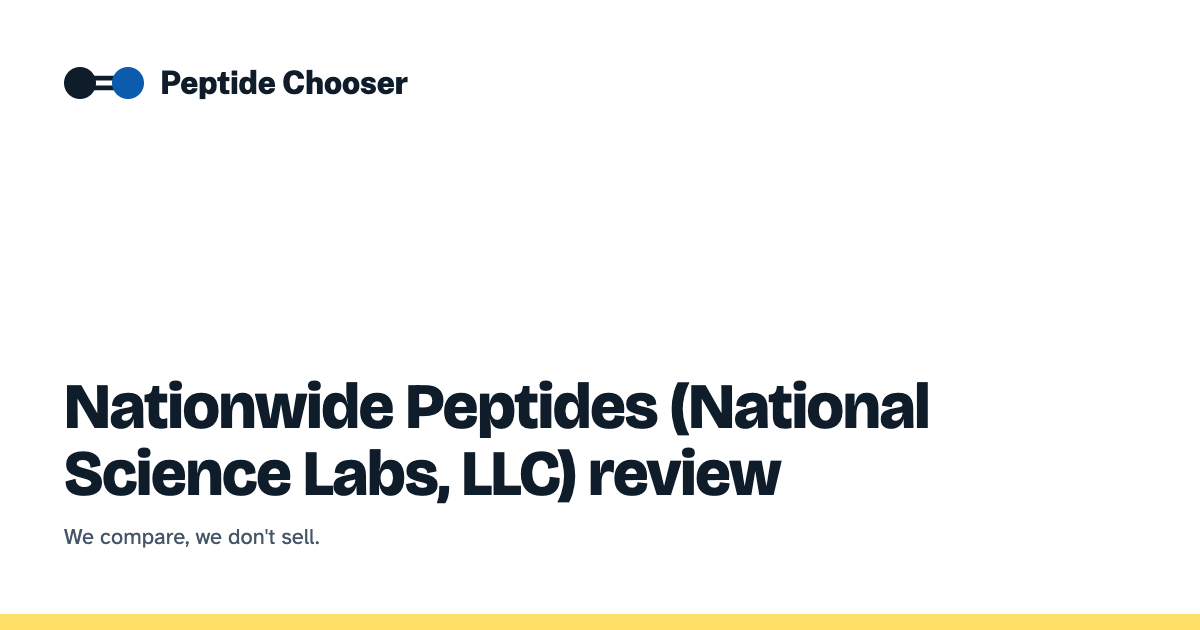
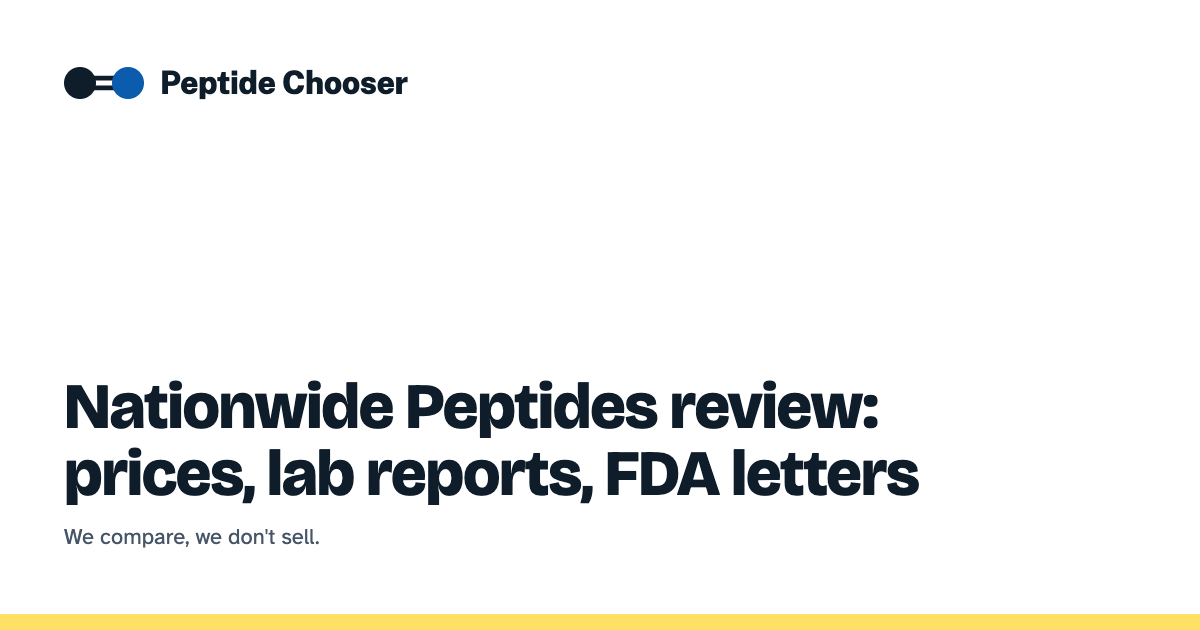
Short seller names everywhere a seller is named, share images included
The data now carries short display names. seller_name() strips a bracketed legal name whatever the data holds, and the
call sites that printed the raw name use it: the letters page ("In our database"), guides, seller lines and tables.
The 9 share images that still drew the old title with the legal name are redrawn. URLs do not change.

Tier 1: the old and new titles and descriptions are listed in the PR, for ODOBRENO SEO.

Changed region(s): [[0.0308, 0.6032, 0.7708, 0.8143]]

diff --git a/dist/learn/fda-warning-letters-peptides-2026/index.html b/dist/learn/fda-warning-letters-peptides-2026/index.html
@@ -22,7 +22,7 @@
 <link rel="stylesheet" href="/assets/tokens.css">
 <link rel="stylesheet" href="/assets/bundle.css">
 <link rel="stylesheet" href="/assets/site.css">
-<script type="application/ld+json">{"@context": "https://schema.org", "@type": "Article", "headline": "FDA warning letters to peptide sellers, 2026: what happened", "description": "Every FDA warning letter we track from 2026, counted by month, by kind of seller and by the substances named, with the common subjects and what a letter asks.", "datePublished": "2026-11-04", "dateModified": "2026-11-04", "author": {"@type": "Organization", "name": "Peptide Chooser", "url": "https://peptidechooser.com/"}, "publisher": {"@type": "Organization", "name": "Peptide Chooser", "url": "https://peptidechooser.com/", "logo": {"@type": "ImageObject", "url": "https://peptidechooser.com/assets/icon-512.png"}}, "mainEntityOfPage": "https://peptidechooser.com/learn/fda-warning-letters-peptides-2026/", "image": "https://peptidechooser.com/assets/og/learn-fda-warning-letters-peptides-2026.png"}</script><script type="application/ld+json">{"@context": "https://schema.org", "@type": "BreadcrumbList", "itemListElement": [{"@type": "ListItem", "position": 1, "name": "Home", "item": "https://peptidechooser.com/"}, {"@type": "ListItem", "position": 2, "name": "Learn", "item": "https://peptidechooser.com/learn/"}, {"@type": "ListItem", "position": 3, "name": "FDA warning letters to peptide sellers, 2026: what happened", "item": "https://peptidechooser.com/learn/fda-warning-letters-peptides-2026/"}]}</script>
+<script type="application/ld+json">{"@context": "https://schema.org", "@type": "Article", "headline": "FDA warning letters to peptide sellers, 2026: what happened", "description": "Every FDA warning letter we track from 2026, counted by month, by kind of seller and by the substances named, with the common subjects and what a letter asks.", "datePublished": "2026-11-05", "dateModified": "2026-11-05", "author": {"@type": "Organization", "name": "Peptide Chooser", "url": "https://peptidechooser.com/"}, "publisher": {"@type": "Organization", "name": "Peptide Chooser", "url": "https://peptidechooser.com/", "logo": {"@type": "ImageObject", "url": "https://peptidechooser.com/assets/icon-512.png"}}, "mainEntityOfPage": "https://peptidechooser.com/learn/fda-warning-letters-peptides-2026/", "image": "https://peptidechooser.com/assets/og/learn-fda-warning-letters-peptides-2026.png"}</script><script type="application/ld+json">{"@context": "https://schema.org", "@type": "BreadcrumbList", "itemListElement": [{"@type": "ListItem", "position": 1, "name": "Home", "item": "https://peptidechooser.com/"}, {"@type": "ListItem", "position": 2, "name": "Learn", "item": "https://peptidechooser.com/learn/"}, {"@type": "ListItem", "position": 3, "name": "FDA warning letters to peptide sellers, 2026: what happened", "item": "https://peptidechooser.com/learn/fda-warning-letters-peptides-2026/"}]}</script>
 <script>
 (function(d){if(matchMedia('(prefers-reduced-motion: reduce)').matches)return;d.classList.add('motion');
 setTimeout(function(){if(!window.pcMotion)d.classList.remove('motion');},3000);})(document.documentElement);

diff --git a/dist/learn/longevity-peptides-epitalon-mots-c-nad/index.html b/dist/learn/longevity-peptides-epitalon-mots-c-nad/index.html
@@ -22,7 +22,7 @@
 <link rel="stylesheet" href="/assets/tokens.css">
 <link rel="stylesheet" href="/assets/bundle.css">
 <link rel="stylesheet" href="/assets/site.css">
-<script type="application/ld+json">{"@context": "https://schema.org", "@type": "Article", "headline": "Longevity peptides: Epitalon, MOTS-c and NAD+ in 2026", "description": "Epitalon, MOTS-c and NAD+ are sold for aging. Their FDA status from our database, the studies in people by design, why NAD+ is not a peptide, and prices.", "datePublished": "2026-11-04", "dateModified": "2026-11-04", "author": {"@type": "Organization", "name": "Peptide Chooser", "url": "https://peptidechooser.com/"}, "publisher": {"@type": "Organization", "name": "Peptide Chooser", "url": "https://peptidechooser.com/", "logo": {"@type": "ImageObject", "url": "https://peptidechooser.com/assets/icon-512.png"}}, "mainEntityOfPage": "https://peptidechooser.com/learn/longevity-peptides-epitalon-mots-c-nad/", "image": "https://peptidechooser.com/assets/og/learn-longevity-peptides-epitalon-mots-c-nad.png"}</script><script type="application/ld+json">{"@context": "https://schema.org", "@type": "BreadcrumbList", "itemListElement": [{"@type": "ListItem", "position": 1, "name": "Home", "item": "https://peptidechooser.com/"}, {"@type": "ListItem", "position": 2, "name": "Learn", "item": "https://peptidechooser.com/learn/"}, {"@type": "ListItem", "position": 3, "name": "Longevity peptides: Epitalon, MOTS-c and NAD+ in 2026", "item": "https://peptidechooser.com/learn/longevity-peptides-epitalon-mots-c-nad/"}]}</script>
+<script type="application/ld+json">{"@context": "https://schema.org", "@type": "Article", "headline": "Longevity peptides: Epitalon, MOTS-c and NAD+ in 2026", "description": "Epitalon, MOTS-c and NAD+ are sold for aging. Their FDA status from our database, the studies in people by design, why NAD+ is not a peptide, and prices.", "datePublished": "2026-11-05", "dateModified": "2026-11-05", "author": {"@type": "Organization", "name": "Peptide Chooser", "url": "https://peptidechooser.com/"}, "publisher": {"@type": "Organization", "name": "Peptide Chooser", "url": "https://peptidechooser.com/", "logo": {"@type": "ImageObject", "url": "https://peptidechooser.com/assets/icon-512.png"}}, "mainEntityOfPage": "https://peptidechooser.com/learn/longevity-peptides-epitalon-mots-c-nad/", "image": "https://peptidechooser.com/assets/og/learn-longevity-peptides-epitalon-mots-c-nad.png"}</script><script type="application/ld+json">{"@context": "https://schema.org", "@type": "BreadcrumbList", "itemListElement": [{"@type": "ListItem", "position": 1, "name": "Home", "item": "https://peptidechooser.com/"}, {"@type": "ListItem", "position": 2, "name": "Learn", "item": "https://peptidechooser.com/learn/"}, {"@type": "ListItem", "position": 3, "name": "Longevity peptides: Epitalon, MOTS-c and NAD+ in 2026", "item": "https://peptidechooser.com/learn/longevity-peptides-epitalon-mots-c-nad/"}]}</script>
 <script>
 (function(d){if(matchMedia('(prefers-reduced-motion: reduce)').matches)return;d.classList.add('motion');
 setTimeout(function(){if(!window.pcMotion)d.classList.remove('motion');},3000);})(document.documentElement);

diff --git a/dist/learn/peptide-seller-checks-by-the-numbers/index.html b/dist/learn/peptide-seller-checks-by-the-numbers/index.html
@@ -22,7 +22,7 @@
 <link rel="stylesheet" href="/assets/tokens.css">
 <link rel="stylesheet" href="/assets/bundle.css">
 <link rel="stylesheet" href="/assets/site.css">
-<script type="application/ld+json">{"@context": "https://schema.org", "@type": "Article", "headline": "Peptide sellers by the numbers: lab reports, FDA letters", "description": "How many of the peptide shops we track meet each of our five checks, how the scores are spread, and how many online clinics have an FDA warning letter.", "datePublished": "2026-11-04", "dateModified": "2026-11-04", "author": {"@type": "Organization", "name": "Peptide Chooser", "url": "https://peptidechooser.com/"}, "publisher": {"@type": "Organization", "name": "Peptide Chooser", "url": "https://peptidechooser.com/", "logo": {"@type": "ImageObject", "url": "https://peptidechooser.com/assets/icon-512.png"}}, "mainEntityOfPage": "https://peptidechooser.com/learn/peptide-seller-checks-by-the-numbers/", "image": "https://peptidechooser.com/assets/og/learn-peptide-seller-checks-by-the-numbers.png"}</script><script type="application/ld+json">{"@context": "https://schema.org", "@type": "BreadcrumbList", "itemListElement": [{"@type": "ListItem", "position": 1, "name": "Home", "item": "https://peptidechooser.com/"}, {"@type": "ListItem", "position": 2, "name": "Learn", "item": "https://peptidechooser.com/learn/"}, {"@type": "ListItem", "position": 3, "name": "Peptide sellers by the numbers: lab reports, FDA letters", "item": "https://peptidechooser.com/learn/peptide-seller-checks-by-the-numbers/"}]}</script>
+<script type="application/ld+json">{"@context": "https://schema.org", "@type": "Article", "headline": "Peptide sellers by the numbers: lab reports, FDA letters", "description": "How many of the peptide shops we track meet each of our five checks, how the scores are spread, and how many online clinics have an FDA warning letter.", "datePublished": "2026-11-05", "dateModified": "2026-11-05", "author": {"@type": "Organization", "name": "Peptide Chooser", "url": "https://peptidechooser.com/"}, "publisher": {"@type": "Organization", "name": "Peptide Chooser", "url": "https://peptidechooser.com/", "logo": {"@type": "ImageObject", "url": "https://peptidechooser.com/assets/icon-512.png"}}, "mainEntityOfPage": "https://peptidechooser.com/learn/peptide-seller-checks-by-the-numbers/", "image": "https://peptidechooser.com/assets/og/learn-peptide-seller-checks-by-the-numbers.png"}</script><script type="application/ld+json">{"@context": "https://schema.org", "@type": "BreadcrumbList", "itemListElement": [{"@type": "ListItem", "position": 1, "name": "Home", "item": "https://peptidechooser.com/"}, {"@type": "ListItem", "position": 2, "name": "Learn", "item": "https://peptidechooser.com/learn/"}, {"@type": "ListItem", "position": 3, "name": "Peptide sellers by the numbers: lab reports, FDA letters", "item": "https://peptidechooser.com/learn/peptide-seller-checks-by-the-numbers/"}]}</script>
 <script>
 (function(d){if(matchMedia('(prefers-reduced-motion: reduce)').matches)return;d.classList.add('motion');
 setTimeout(function(){if(!window.pcMotion)d.classList.remove('motion');},3000);})(document.documentElement);

diff --git a/dist/learn/what-research-use-only-means/index.html b/dist/learn/what-research-use-only-means/index.html
@@ -22,7 +22,7 @@
 <link rel="stylesheet" href="/assets/tokens.css">
 <link rel="stylesheet" href="/assets/bundle.css">
 <link rel="stylesheet" href="/assets/site.css">
-<script type="application/ld+json">{"@context": "https://schema.org", "@type": "Article", "headline": "What \u201cresearch use only\u201d means on a peptide label", "description": "\u201cResearch use only\u201d is the seller's own wording, not an approval. What the FDA says about it in its letters, what shops' pages show, and what it means for you.", "datePublished": "2026-11-04", "dateModified": "2026-11-04", "author": {"@type": "Organization", "name": "Peptide Chooser", "url": "https://peptidechooser.com/"}, "publisher": {"@type": "Organization", "name": "Peptide Chooser", "url": "https://peptidechooser.com/", "logo": {"@type": "ImageObject", "url": "https://peptidechooser.com/assets/icon-512.png"}}, "mainEntityOfPage": "https://peptidechooser.com/learn/what-research-use-only-means/", "image": "https://peptidechooser.com/assets/og/learn-what-research-use-only-means.png"}</script><script type="application/ld+json">{"@context": "https://schema.org", "@type": "BreadcrumbList", "itemListElement": [{"@type": "ListItem", "position": 1, "name": "Home", "item": "https://peptidechooser.com/"}, {"@type": "ListItem", "position": 2, "name": "Learn", "item": "https://peptidechooser.com/learn/"}, {"@type": "ListItem", "position": 3, "name": "What \u201cresearch use only\u201d means on a peptide label", "item": "https://peptidechooser.com/learn/what-research-use-only-means/"}]}</script>
+<script type="application/ld+json">{"@context": "https://schema.org", "@type": "Article", "headline": "What \u201cresearch use only\u201d means on a peptide label", "description": "\u201cResearch use only\u201d is the seller's own wording, not an approval. What the FDA says about it in its letters, what shops' pages show, and what it means for you.", "datePublished": "2026-11-05", "dateModified": "2026-11-05", "author": {"@type": "Organization", "name": "Peptide Chooser", "url": "https://peptidechooser.com/"}, "publisher": {"@type": "Organization", "name": "Peptide Chooser", "url": "https://peptidechooser.com/", "logo": {"@type": "ImageObject", "url": "https://peptidechooser.com/assets/icon-512.png"}}, "mainEntityOfPage": "https://peptidechooser.com/learn/what-research-use-only-means/", "image": "https://peptidechooser.com/assets/og/learn-what-research-use-only-means.png"}</script><script type="application/ld+json">{"@context": "https://schema.org", "@type": "BreadcrumbList", "itemListElement": [{"@type": "ListItem", "position": 1, "name": "Home", "item": "https://peptidechooser.com/"}, {"@type": "ListItem", "position": 2, "name": "Learn", "item": "https://peptidechooser.com/learn/"}, {"@type": "ListItem", "position": 3, "name": "What \u201cresearch use only\u201d means on a peptide label", "item": "https://peptidechooser.com/learn/what-research-use-only-means/"}]}</script>
 <script>
 (function(d){if(matchMedia('(prefers-reduced-motion: reduce)').matches)return;d.classList.add('motion');
 setTimeout(function(){if(!window.pcMotion)d.classList.remove('motion');},3000);})(document.documentElement);

diff --git a/dist/learn/peptides-for-hair-loss-what-works/index.html b/dist/learn/peptides-for-hair-loss-what-works/index.html
@@ -22,7 +22,7 @@
 <link rel="stylesheet" href="/assets/tokens.css">
 <link rel="stylesheet" href="/assets/bundle.css">
 <link rel="stylesheet" href="/assets/site.css">
-<script type="application/ld+json">{"@context": "https://schema.org", "@type": "Article", "headline": "Peptides for hair loss: what works and what is marketing", "description": "Finasteride and minoxidil are the FDA-approved hair loss options. What copper peptide serums and injectable peptides have behind them, and what clinics charge.", "datePublished": "2026-11-04", "dateModified": "2026-11-04", "author": {"@type": "Organization", "name": "Peptide Chooser", "url": "https://peptidechooser.com/"}, "publisher": {"@type": "Organization", "name": "Peptide Chooser", "url": "https://peptidechooser.com/", "logo": {"@type": "ImageObject", "url": "https://peptidechooser.com/assets/icon-512.png"}}, "mainEntityOfPage": "https://peptidechooser.com/learn/peptides-for-hair-loss-what-works/", "image": "https://peptidechooser.com/assets/og/learn-peptides-for-hair-loss-what-works.png"}</script><script type="application/ld+json">{"@context": "https://schema.org", "@type": "BreadcrumbList", "itemListElement": [{"@type": "ListItem", "position": 1, "name": "Home", "item": "https://peptidechooser.com/"}, {"@type": "ListItem", "position": 2, "name": "Learn", "item": "https://peptidechooser.com/learn/"}, {"@type": "ListItem", "position": 3, "name": "Peptides for hair loss: what works and what is marketing", "item": "https://peptidechooser.com/learn/peptides-for-hair-loss-what-works/"}]}</script>
+<script type="application/ld+json">{"@context": "https://schema.org", "@type": "Article", "headline": "Peptides for hair loss: what works and what is marketing", "description": "Finasteride and minoxidil are the FDA-approved hair loss options. What copper peptide serums and injectable peptides have behind them, and what clinics charge.", "datePublished": "2026-11-05", "dateModified": "2026-11-05", "author": {"@type": "Organization", "name": "Peptide Chooser", "url": "https://peptidechooser.com/"}, "publisher": {"@type": "Organization", "name": "Peptide Chooser", "url": "https://peptidechooser.com/", "logo": {"@type": "ImageObject", "url": "https://peptidechooser.com/assets/icon-512.png"}}, "mainEntityOfPage": "https://peptidechooser.com/learn/peptides-for-hair-loss-what-works/", "image": "https://peptidechooser.com/assets/og/learn-peptides-for-hair-loss-what-works.png"}</script><script type="application/ld+json">{"@context": "https://schema.org", "@type": "BreadcrumbList", "itemListElement": [{"@type": "ListItem", "position": 1, "name": "Home", "item": "https://peptidechooser.com/"}, {"@type": "ListItem", "position": 2, "name": "Learn", "item": "https://peptidechooser.com/learn/"}, {"@type": "ListItem", "position": 3, "name": "Peptides for hair loss: what works and what is marketing", "item": "https://peptidechooser.com/learn/peptides-for-hair-loss-what-works/"}]}</script>
 <script>
 (function(d){if(matchMedia('(prefers-reduced-motion: reduce)').matches)return;d.classList.add('motion');
 setTimeout(function(){if(!window.pcMotion)d.classList.remove('motion');},3000);})(document.documentElement);

diff --git a/dist/learn/peptides-for-libido-what-is-approved/index.html b/dist/learn/peptides-for-libido-what-is-approved/index.html
@@ -22,7 +22,7 @@
 <link rel="stylesheet" href="/assets/tokens.css">
 <link rel="stylesheet" href="/assets/bundle.css">
 <link rel="stylesheet" href="/assets/site.css">
-<script type="application/ld+json">{"@context": "https://schema.org", "@type": "Article", "headline": "Peptides for libido: Vyleesi, Melanotan II and the rest", "description": "Vyleesi (bremelanotide) is FDA approved for low desire in premenopausal women. PT-141 from shops, Melanotan II, their FDA status and what shops charge.", "datePublished": "2026-11-04", "dateModified": "2026-11-04", "author": {"@type": "Organization", "name": "Peptide Chooser", "url": "https://peptidechooser.com/"}, "publisher": {"@type": "Organization", "name": "Peptide Chooser", "url": "https://peptidechooser.com/", "logo": {"@type": "ImageObject", "url": "https://peptidechooser.com/assets/icon-512.png"}}, "mainEntityOfPage": "https://peptidechooser.com/learn/peptides-for-libido-what-is-approved/", "image": "https://peptidechooser.com/assets/og/learn-peptides-for-libido-what-is-approved.png"}</script><script type="application/ld+json">{"@context": "https://schema.org", "@type": "BreadcrumbList", "itemListElement": [{"@type": "ListItem", "position": 1, "name": "Home", "item": "https://peptidechooser.com/"}, {"@type": "ListItem", "position": 2, "name": "Learn", "item": "https://peptidechooser.com/learn/"}, {"@type": "ListItem", "position": 3, "name": "Peptides for libido: Vyleesi, Melanotan II and the rest", "item": "https://peptidechooser.com/learn/peptides-for-libido-what-is-approved/"}]}</script>
+<script type="application/ld+json">{"@context": "https://schema.org", "@type": "Article", "headline": "Peptides for libido: Vyleesi, Melanotan II and the rest", "description": "Vyleesi (bremelanotide) is FDA approved for low desire in premenopausal women. PT-141 from shops, Melanotan II, their FDA status and what shops charge.", "datePublished": "2026-11-05", "dateModified": "2026-11-05", "author": {"@type": "Organization", "name": "Peptide Chooser", "url": "https://peptidechooser.com/"}, "publisher": {"@type": "Organization", "name": "Peptide Chooser", "url": "https://peptidechooser.com/", "logo": {"@type": "ImageObject", "url": "https://peptidechooser.com/assets/icon-512.png"}}, "mainEntityOfPage": "https://peptidechooser.com/learn/peptides-for-libido-what-is-approved/", "image": "https://peptidechooser.com/assets/og/learn-peptides-for-libido-what-is-approved.png"}</script><script type="application/ld+json">{"@context": "https://schema.org", "@type": "BreadcrumbList", "itemListElement": [{"@type": "ListItem", "position": 1, "name": "Home", "item": "https://peptidechooser.com/"}, {"@type": "ListItem", "position": 2, "name": "Learn", "item": "https://peptidechooser.com/learn/"}, {"@type": "ListItem", "position": 3, "name": "Peptides for libido: Vyleesi, Melanotan II and the rest", "item": "https://peptidechooser.com/learn/peptides-for-libido-what-is-approved/"}]}</script>
 <script>
 (function(d){if(matchMedia('(prefers-reduced-motion: reduce)').matches)return;d.classList.add('motion');
 setTimeout(function(){if(!window.pcMotion)d.classList.remove('motion');},3000);})(document.documentElement);

diff --git a/dist/learn/injectable-peptides-for-hair-growth/index.html b/dist/learn/injectable-peptides-for-hair-growth/index.html
@@ -22,7 +22,7 @@
 <link rel="stylesheet" href="/assets/tokens.css">
 <link rel="stylesheet" href="/assets/bundle.css">
 <link rel="stylesheet" href="/assets/site.css">
-<script type="application/ld+json">{"@context": "https://schema.org", "@type": "Article", "headline": "Injectable peptides for hair growth: legal status, evidence", "description": "BPC-157, TB-500 and GHK-Cu vials are sold for hair. Their FDA status from our database, the evidence in people, and what approved options cost.", "datePublished": "2026-11-04", "dateModified": "2026-11-04", "author": {"@type": "Organization", "name": "Peptide Chooser", "url": "https://peptidechooser.com/"}, "publisher": {"@type": "Organization", "name": "Peptide Chooser", "url": "https://peptidechooser.com/", "logo": {"@type": "ImageObject", "url": "https://peptidechooser.com/assets/icon-512.png"}}, "mainEntityOfPage": "https://peptidechooser.com/learn/injectable-peptides-for-hair-growth/", "image": "https://peptidechooser.com/assets/og/learn-injectable-peptides-for-hair-growth.png"}</script><script type="application/ld+json">{"@context": "https://schema.org", "@type": "BreadcrumbList", "itemListElement": [{"@type": "ListItem", "position": 1, "name": "Home", "item": "https://peptidechooser.com/"}, {"@type": "ListItem", "position": 2, "name": "Learn", "item": "https://peptidechooser.com/learn/"}, {"@type": "ListItem", "position": 3, "name": "Injectable peptides for hair growth: legal status, evidence", "item": "https://peptidechooser.com/learn/injectable-peptides-for-hair-growth/"}]}</script>
+<script type="application/ld+json">{"@context": "https://schema.org", "@type": "Article", "headline": "Injectable peptides for hair growth: legal status, evidence", "description": "BPC-157, TB-500 and GHK-Cu vials are sold for hair. Their FDA status from our database, the evidence in people, and what approved options cost.", "datePublished": "2026-11-05", "dateModified": "2026-11-05", "author": {"@type": "Organization", "name": "Peptide Chooser", "url": "https://peptidechooser.com/"}, "publisher": {"@type": "Organization", "name": "Peptide Chooser", "url": "https://peptidechooser.com/", "logo": {"@type": "ImageObject", "url": "https://peptidechooser.com/assets/icon-512.png"}}, "mainEntityOfPage": "https://peptidechooser.com/learn/injectable-peptides-for-hair-growth/", "image": "https://peptidechooser.com/assets/og/learn-injectable-peptides-for-hair-growth.png"}</script><script type="application/ld+json">{"@context": "https://schema.org", "@type": "BreadcrumbList", "itemListElement": [{"@type": "ListItem", "position": 1, "name": "Home", "item": "https://peptidechooser.com/"}, {"@type": "ListItem", "position": 2, "name": "Learn", "item": "https://peptidechooser.com/learn/"}, {"@type": "ListItem", "position": 3, "name": "Injectable peptides for hair growth: legal status, evidence", "item": "https://peptidechooser.com/learn/injectable-peptides-for-hair-growth/"}]}</script>
 <script>
 (function(d){if(matchMedia('(prefers-reduced-motion: reduce)').matches)return;d.classList.add('motion');
 setTimeout(function(){if(!window.pcMotion)d.classList.remove('motion');},3000);})(document.documentElement);

diff --git a/dist/learn/peptides-for-recovery-and-joints/index.html b/dist/learn/peptides-for-recovery-and-joints/index.html
@@ -22,7 +22,7 @@
 <link rel="stylesheet" href="/assets/tokens.css">
 <link rel="stylesheet" href="/assets/bundle.css">
 <link rel="stylesheet" href="/assets/site.css">
-<script type="application/ld+json">{"@context": "https://schema.org", "@type": "Article", "headline": "Peptides for recovery and joints: what the evidence shows", "description": "BPC-157 and TB-500 are sold for injuries and joints. What the few studies in people found, their FDA status, the usual treatments and shop prices.", "datePublished": "2026-11-04", "dateModified": "2026-11-04", "author": {"@type": "Organization", "name": "Peptide Chooser", "url": "https://peptidechooser.com/"}, "publisher": {"@type": "Organization", "name": "Peptide Chooser", "url": "https://peptidechooser.com/", "logo": {"@type": "ImageObject", "url": "https://peptidechooser.com/assets/icon-512.png"}}, "mainEntityOfPage": "https://peptidechooser.com/learn/peptides-for-recovery-and-joints/", "image": "https://peptidechooser.com/assets/og/learn-peptides-for-recovery-and-joints.png"}</script><script type="application/ld+json">{"@context": "https://schema.org", "@type": "BreadcrumbList", "itemListElement": [{"@type": "ListItem", "position": 1, "name": "Home", "item": "https://peptidechooser.com/"}, {"@type": "ListItem", "position": 2, "name": "Learn", "item": "https://peptidechooser.com/learn/"}, {"@type": "ListItem", "position": 3, "name": "Peptides for recovery and joints: what the evidence shows", "item": "https://peptidechooser.com/learn/peptides-for-recovery-and-joints/"}]}</script>
+<script type="application/ld+json">{"@context": "https://schema.org", "@type": "Article", "headline": "Peptides for recovery and joints: what the evidence shows", "description": "BPC-157 and TB-500 are sold for injuries and joints. What the few studies in people found, their FDA status, the usual treatments and shop prices.", "datePublished": "2026-11-05", "dateModified": "2026-11-05", "author": {"@type": "Organization", "name": "Peptide Chooser", "url": "https://peptidechooser.com/"}, "publisher": {"@type": "Organization", "name": "Peptide Chooser", "url": "https://peptidechooser.com/", "logo": {"@type": "ImageObject", "url": "https://peptidechooser.com/assets/icon-512.png"}}, "mainEntityOfPage": "https://peptidechooser.com/learn/peptides-for-recovery-and-joints/", "image": "https://peptidechooser.com/assets/og/learn-peptides-for-recovery-and-joints.png"}</script><script type="application/ld+json">{"@context": "https://schema.org", "@type": "BreadcrumbList", "itemListElement": [{"@type": "ListItem", "position": 1, "name": "Home", "item": "https://peptidechooser.com/"}, {"@type": "ListItem", "position": 2, "name": "Learn", "item": "https://peptidechooser.com/learn/"}, {"@type": "ListItem", "position": 3, "name": "Peptides for recovery and joints: what the evidence shows", "item": "https://peptidechooser.com/learn/peptides-for-recovery-and-joints/"}]}</script>
 <script>
 (function(d){if(matchMedia('(prefers-reduced-motion: reduce)').matches)return;d.classList.add('motion');
 setTimeout(function(){if(!window.pcMotion)d.classList.remove('motion');},3000);})(document.documentElement);

diff --git a/dist/learn/online-clinic-vs-research-shop/index.html b/dist/learn/online-clinic-vs-research-shop/index.html
@@ -22,7 +22,7 @@
 <link rel="stylesheet" href="/assets/tokens.css">
 <link rel="stylesheet" href="/assets/bundle.css">
 <link rel="stylesheet" href="/assets/site.css">
-<script type="application/ld+json">{"@context": "https://schema.org", "@type": "Article", "headline": "Online clinic vs research-use shop: what you are buying", "description": "An online clinic sells a prescription after a visit; a research-use shop sells vials not meant for people. What each may sell, our checks and FDA letters.", "datePublished": "2026-11-04", "dateModified": "2026-11-04", "author": {"@type": "Organization", "name": "Peptide Chooser", "url": "https://peptidechooser.com/"}, "publisher": {"@type": "Organization", "name": "Peptide Chooser", "url": "https://peptidechooser.com/", "logo": {"@type": "ImageObject", "url": "https://peptidechooser.com/assets/icon-512.png"}}, "mainEntityOfPage": "https://peptidechooser.com/learn/online-clinic-vs-research-shop/", "image": "https://peptidechooser.com/assets/og/learn-online-clinic-vs-research-shop.png"}</script><script type="application/ld+json">{"@context": "https://schema.org", "@type": "BreadcrumbList", "itemListElement": [{"@type": "ListItem", "position": 1, "name": "Home", "item": "https://peptidechooser.com/"}, {"@type": "ListItem", "position": 2, "name": "Learn", "item": "https://peptidechooser.com/learn/"}, {"@type": "ListItem", "position": 3, "name": "Online clinic vs research-use shop: what you are buying", "item": "https://peptidechooser.com/learn/online-clinic-vs-research-shop/"}]}</script>
+<script type="application/ld+json">{"@context": "https://schema.org", "@type": "Article", "headline": "Online clinic vs research-use shop: what you are buying", "description": "An online clinic sells a prescription after a visit; a research-use shop sells vials not meant for people. What each may sell, our checks and FDA letters.", "datePublished": "2026-11-05", "dateModified": "2026-11-05", "author": {"@type": "Organization", "name": "Peptide Chooser", "url": "https://peptidechooser.com/"}, "publisher": {"@type": "Organization", "name": "Peptide Chooser", "url": "https://peptidechooser.com/", "logo": {"@type": "ImageObject", "url": "https://peptidechooser.com/assets/icon-512.png"}}, "mainEntityOfPage": "https://peptidechooser.com/learn/online-clinic-vs-research-shop/", "image": "https://peptidechooser.com/assets/og/learn-online-clinic-vs-research-shop.png"}</script><script type="application/ld+json">{"@context": "https://schema.org", "@type": "BreadcrumbList", "itemListElement": [{"@type": "ListItem", "position": 1, "name": "Home", "item": "https://peptidechooser.com/"}, {"@type": "ListItem", "position": 2, "name": "Learn", "item": "https://peptidechooser.com/learn/"}, {"@type": "ListItem", "position": 3, "name": "Online clinic vs research-use shop: what you are buying", "item": "https://peptidechooser.com/learn/online-clinic-vs-research-shop/"}]}</script>
 <script>
 (function(d){if(matchMedia('(prefers-reduced-motion: reduce)').matches)return;d.classList.add('motion');
 setTimeout(function(){if(!window.pcMotion)d.classList.remove('motion');},3000);})(document.documentElement);

diff --git a/dist/learn/semaglutide-vs-tirzepatide-price/index.html b/dist/learn/semaglutide-vs-tirzepatide-price/index.html
@@ -22,7 +22,7 @@
 <link rel="stylesheet" href="/assets/tokens.css">
 <link rel="stylesheet" href="/assets/bundle.css">
 <link rel="stylesheet" href="/assets/site.css">
-<script type="application/ld+json">{"@context": "https://schema.org", "@type": "Article", "headline": "Semaglutide vs tirzepatide: price at online clinics", "description": "Every semaglutide and tirzepatide plan at the online clinics we track, brand and compounded, cheapest first, with care fees and what each is approved for.", "datePublished": "2026-11-04", "dateModified": "2026-11-04", "author": {"@type": "Organization", "name": "Peptide Chooser", "url": "https://peptidechooser.com/"}, "publisher": {"@type": "Organization", "name": "Peptide Chooser", "url": "https://peptidechooser.com/", "logo": {"@type": "ImageObject", "url": "https://peptidechooser.com/assets/icon-512.png"}}, "mainEntityOfPage": "https://peptidechooser.com/learn/semaglutide-vs-tirzepatide-price/", "image": "https://peptidechooser.com/assets/og/learn-semaglutide-vs-tirzepatide-price.png"}</script><script type="application/ld+json">{"@context": "https://schema.org", "@type": "BreadcrumbList", "itemListElement": [{"@type": "ListItem", "position": 1, "name": "Home", "item": "https://peptidechooser.com/"}, {"@type": "ListItem", "position": 2, "name": "Learn", "item": "https://peptidechooser.com/learn/"}, {"@type": "ListItem", "position": 3, "name": "Semaglutide vs tirzepatide: price at online clinics", "item": "https://peptidechooser.com/learn/semaglutide-vs-tirzepatide-price/"}]}</script>
+<script type="application/ld+json">{"@context": "https://schema.org", "@type": "Article", "headline": "Semaglutide vs tirzepatide: price at online clinics", "description": "Every semaglutide and tirzepatide plan at the online clinics we track, brand and compounded, cheapest first, with care fees and what each is approved for.", "datePublished": "2026-11-05", "dateModified": "2026-11-05", "author": {"@type": "Organization", "name": "Peptide Chooser", "url": "https://peptidechooser.com/"}, "publisher": {"@type": "Organization", "name": "Peptide Chooser", "url": "https://peptidechooser.com/", "logo": {"@type": "ImageObject", "url": "https://peptidechooser.com/assets/icon-512.png"}}, "mainEntityOfPage": "https://peptidechooser.com/learn/semaglutide-vs-tirzepatide-price/", "image": "https://peptidechooser.com/assets/og/learn-semaglutide-vs-tirzepatide-price.png"}</script><script type="application/ld+json">{"@context": "https://schema.org", "@type": "BreadcrumbList", "itemListElement": [{"@type": "ListItem", "position": 1, "name": "Home", "item": "https://peptidechooser.com/"}, {"@type": "ListItem", "position": 2, "name": "Learn", "item": "https://peptidechooser.com/learn/"}, {"@type": "ListItem", "position": 3, "name": "Semaglutide vs tirzepatide: price at online clinics", "item": "https://peptidechooser.com/learn/semaglutide-vs-tirzepatide-price/"}]}</script>
 <script>
 (function(d){if(matchMedia('(prefers-reduced-motion: reduce)').matches)return;d.classList.add('motion');
 setTimeout(function(){if(!window.pcMotion)d.classList.remove('motion');},3000);})(document.documentElement);

diff --git a/dist/learn/best-peptides-for-muscle-growth/index.html b/dist/learn/best-peptides-for-muscle-growth/index.html
@@ -22,7 +22,7 @@
 <link rel="stylesheet" href="/assets/tokens.css">
 <link rel="stylesheet" href="/assets/bundle.css">
 <link rel="stylesheet" href="/assets/site.css">
-<script type="application/ld+json">{"@context": "https://schema.org", "@type": "Article", "headline": "Best peptides for muscle growth: what the evidence shows", "description": "CJC-1295, ipamorelin, sermorelin and tesamorelin: what each was tested on in people, their FDA status, what is approved and for what, and prices.", "datePublished": "2026-11-04", "dateModified": "2026-11-04", "author": {"@type": "Organization", "name": "Peptide Chooser", "url": "https://peptidechooser.com/"}, "publisher": {"@type": "Organization", "name": "Peptide Chooser", "url": "https://peptidechooser.com/", "logo": {"@type": "ImageObject", "url": "https://peptidechooser.com/assets/icon-512.png"}}, "mainEntityOfPage": "https://peptidechooser.com/learn/best-peptides-for-muscle-growth/", "image": "https://peptidechooser.com/assets/og/learn-best-peptides-for-muscle-growth.png"}</script><script type="application/ld+json">{"@context": "https://schema.org", "@type": "BreadcrumbList", "itemListElement": [{"@type": "ListItem", "position": 1, "name": "Home", "item": "https://peptidechooser.com/"}, {"@type": "ListItem", "position": 2, "name": "Learn", "item": "https://peptidechooser.com/learn/"}, {"@type": "ListItem", "position": 3, "name": "Best peptides for muscle growth: what the evidence shows", "item": "https://peptidechooser.com/learn/best-peptides-for-muscle-growth/"}]}</script>
+<script type="application/ld+json">{"@context": "https://schema.org", "@type": "Article", "headline": "Best peptides for muscle growth: what the evidence shows", "description": "CJC-1295, ipamorelin, sermorelin and tesamorelin: what each was tested on in people, their FDA status, what is approved and for what, and prices.", "datePublished": "2026-11-05", "dateModified": "2026-11-05", "author": {"@type": "Organization", "name": "Peptide Chooser", "url": "https://peptidechooser.com/"}, "publisher": {"@type": "Organization", "name": "Peptide Chooser", "url": "https://peptidechooser.com/", "logo": {"@type": "ImageObject", "url": "https://peptidechooser.com/assets/icon-512.png"}}, "mainEntityOfPage": "https://peptidechooser.com/learn/best-peptides-for-muscle-growth/", "image": "https://peptidechooser.com/assets/og/learn-best-peptides-for-muscle-growth.png"}</script><script type="application/ld+json">{"@context": "https://schema.org", "@type": "BreadcrumbList", "itemListElement": [{"@type": "ListItem", "position": 1, "name": "Home", "item": "https://peptidechooser.com/"}, {"@type": "ListItem", "position": 2, "name": "Learn", "item": "https://peptidechooser.com/learn/"}, {"@type": "ListItem", "position": 3, "name": "Best peptides for muscle growth: what the evidence shows", "item": "https://peptidechooser.com/learn/best-peptides-for-muscle-growth/"}]}</script>
 <script>
 (function(d){if(matchMedia('(prefers-reduced-motion: reduce)').matches)return;d.classList.add('motion');
 setTimeout(function(){if(!window.pcMotion)d.classList.remove('motion');},3000);})(document.documentElement);

diff --git a/dist/learn/compounded-semaglutide-price/index.html b/dist/learn/compounded-semaglutide-price/index.html
@@ -22,7 +22,7 @@
 <link rel="stylesheet" href="/assets/tokens.css">
 <link rel="stylesheet" href="/assets/bundle.css">
 <link rel="stylesheet" href="/assets/site.css">
-<script type="application/ld+json">{"@context": "https://schema.org", "@type": "Article", "headline": "Compounded semaglutide price: what clinics charge in 2026", "description": "Every compounded semaglutide plan at the online clinics we track, cheapest first, with its care fee and FDA letter, next to Wegovy and Ozempic plans.", "datePublished": "2026-11-04", "dateModified": "2026-11-04", "author": {"@type": "Organization", "name": "Peptide Chooser", "url": "https://peptidechooser.com/"}, "publisher": {"@type": "Organization", "name": "Peptide Chooser", "url": "https://peptidechooser.com/", "logo": {"@type": "ImageObject", "url": "https://peptidechooser.com/assets/icon-512.png"}}, "mainEntityOfPage": "https://peptidechooser.com/learn/compounded-semaglutide-price/", "image": "https://peptidechooser.com/assets/og/learn-compounded-semaglutide-price.png"}</script><script type="application/ld+json">{"@context": "https://schema.org", "@type": "BreadcrumbList", "itemListElement": [{"@type": "ListItem", "position": 1, "name": "Home", "item": "https://peptidechooser.com/"}, {"@type": "ListItem", "position": 2, "name": "Learn", "item": "https://peptidechooser.com/learn/"}, {"@type": "ListItem", "position": 3, "name": "Compounded semaglutide price: what clinics charge in 2026", "item": "https://peptidechooser.com/learn/compounded-semaglutide-price/"}]}</script>
+<script type="application/ld+json">{"@context": "https://schema.org", "@type": "Article", "headline": "Compounded semaglutide price: what clinics charge in 2026", "description": "Every compounded semaglutide plan at the online clinics we track, cheapest first, with its care fee and FDA letter, next to Wegovy and Ozempic plans.", "datePublished": "2026-11-05", "dateModified": "2026-11-05", "author": {"@type": "Organization", "name": "Peptide Chooser", "url": "https://peptidechooser.com/"}, "publisher": {"@type": "Organization", "name": "Peptide Chooser", "url": "https://peptidechooser.com/", "logo": {"@type": "ImageObject", "url": "https://peptidechooser.com/assets/icon-512.png"}}, "mainEntityOfPage": "https://peptidechooser.com/learn/compounded-semaglutide-price/", "image": "https://peptidechooser.com/assets/og/learn-compounded-semaglutide-price.png"}</script><script type="application/ld+json">{"@context": "https://schema.org", "@type": "BreadcrumbList", "itemListElement": [{"@type": "ListItem", "position": 1, "name": "Home", "item": "https://peptidechooser.com/"}, {"@type": "ListItem", "position": 2, "name": "Learn", "item": "https://peptidechooser.com/learn/"}, {"@type": "ListItem", "position": 3, "name": "Compounded semaglutide price: what clinics charge in 2026", "item": "https://peptidechooser.com/learn/compounded-semaglutide-price/"}]}</script>
 <script>
 (function(d){if(matchMedia('(prefers-reduced-motion: reduce)').matches)return;d.classList.add('motion');
 setTimeout(function(){if(!window.pcMotion)d.classList.remove('motion');},3000);})(document.documentElement);
